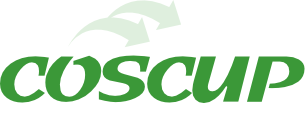
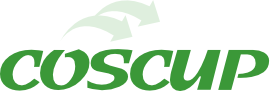
Adjustment for IE7/8

diff --git a/assets/script.min.js b/assets/script.min.js
@@ -1,5 +1,5 @@
-jQuery(function(a){var b=a('<div id="images" class="images" />');a("#header").prepend(b);b.imageTile({num:60,photos:[].concat(yuren_54.shuffle(),photos.shuffle().slice(0,60-yuren_54.length))});b=a('<div id="images_footer" class="images" />');a("#footer").prepend(b);b.imageTile({num:15,photos:yuren_54});a("#sidebar2 > .images").imageTile({num:12,photos:yuren_54});var c=a("#connect_box"),d;a("#connect").bind("click",function(a){a.preventDefault();c.toggleClass("show",!c.is(":visible"))}).add(c).bind("mouseenter",
-function(){clearTimeout(d);c.is(":visible")||c.addClass("show")}).bind("mouseleave",function(){d=setTimeout(function(){c.removeClass("show")},200)})});
+jQuery(function(a){var b=a('<div id="images" class="images" />');a("#header").prepend(b);b.imageTile({num:60,photos:[].concat(yuren_54.shuffle(),photos.shuffle().slice(0,60-yuren_54.length)),beforeImageLoad:function(a){a.css("opacity",0)},imageLoad:function(a){a.css("opacity",0.5)}});b=a('<div id="images_footer" class="images" />');a("#footer").prepend(b);b.imageTile({num:15,photos:yuren_54,beforeImageLoad:function(a){a.css("opacity",0)},imageLoad:function(a){a.css("opacity",0.5)}});a("#sidebar2 > .images").imageTile({num:12,
+photos:yuren_54,beforeImageLoad:function(a){a.css("opacity",0)},imageLoad:function(a){a.css("opacity",1)}});var c=a("#connect_box"),d;a("#connect").bind("click",function(a){a.preventDefault();c.toggleClass("show",!c.is(":visible"))}).add(c).bind("mouseenter",function(){clearTimeout(d);c.is(":visible")||c.addClass("show")}).bind("mouseleave",function(){d=setTimeout(function(){c.removeClass("show")},200)})});
 var yuren_54=[{photo_url:"4075/4889441807_3a86c8bf67",link_url:"12452841@N00/4889441807",title:"P8140746"},{photo_url:"4140/4901940636_321b5dc4b1",link_url:"48749766@N00/4901940636",title:"DSC_2622"},{photo_url:"4134/4893573695_bd7cf4c7b6",link_url:"12452841@N00/4893573695",title:"P8151046"},{photo_url:"4074/4901933360_56de47f0a2",link_url:"48749766@N00/4901933360",title:"DSC_2541"},{photo_url:"4077/4912818611_92a804ccb1",link_url:"54331619@N00/4912818611",title:"COSCUP Day 2"},{photo_url:"4139/4903649894_ef83276b1e",
 link_url:"38664137@N07/4903649894",title:"full2"},{photo_url:"4114/4892533724_255a0db780",link_url:"96595297@N00/4892533724",title:"DSC_8318"},{photo_url:"4143/4893498695_6ed348fb05",link_url:"12452841@N00/4893498695",title:"P8151024"},{photo_url:"4116/4901453941_9053107317",link_url:"48749766@N00/4901453941",title:"DSC_3313"},{photo_url:"4082/4901389753_7a1dc45532",link_url:"48749766@N00/4901389753",title:"DSC_2942"},{photo_url:"4114/4907109051_dbb853678f",link_url:"54331619@N00/4907109051",title:"COSCUP 2010 Day 1 - Ubuntu BoF"},
 {photo_url:"4073/4892563466_96ec98e91b",link_url:"96595297@N00/4892563466",title:"DSC_8100"},{photo_url:"4140/4907688780_cdd0f13076",link_url:"54331619@N00/4907688780",title:"COSCUP 2010 Day 1"},{photo_url:"4094/4893271331_a53ae76028",link_url:"12452841@N00/4893271331",title:"P8150957"},{photo_url:"4079/4905410356_15f64bf25e",link_url:"54331619@N00/4905410356",title:"COSCUP 2010 Day 1"},{photo_url:"4100/4890741725_22f7365dd4",link_url:"12452841@N00/4890741725",title:"P8140894"},{photo_url:"4116/4934292898_a1b9a6856f",

diff --git a/assets/style.css b/assets/style.css
@@ -14,22 +14,21 @@ body {
   margin: 0;
   padding: 0;
   width: 75px;
-  height: 75px;
-  opacity: 0.5;
-  -moz-transition: opacity 0.2s ease-out;
-  -webkit-transition: opacity 0.2s ease-out;
-  -ms-transition: opacity 0.2s ease-out;
-  -o-transition: opacity 0.2s ease-out;
-  transition: opacity 0.2s ease-out; }
-  .images > a:hover {
+  height: 75px; }
+  .images > a > img {
+    -moz-transition: opacity 0.2s ease-out;
+    -webkit-transition: opacity 0.2s ease-out;
+    -ms-transition: opacity 0.2s ease-out;
+    -o-transition: opacity 0.2s ease-out;
+    transition: opacity 0.2s ease-out;
+    border: none; }
+  .images > a:hover > img {
     -moz-transition: opacity 0.2s ease-in;
     -webkit-transition: opacity 0.2s ease-in;
     -ms-transition: opacity 0.2s ease-in;
     -o-transition: opacity 0.2s ease-in;
     transition: opacity 0.2s ease-in;
-    opacity: 1; }
-.images img {
-  border: none; }
+    opacity: 1!important; }
 
 #header, #footer {
   width: 1110px;
@@ -79,7 +78,7 @@ body {
         left: 5px;
         width: 270px;
         height: 107.115px;
-        background: transparent url("coscup.svg") center center no-repeat;
+        background: transparent url("coscup.png") center center no-repeat;
         background-size: cover;
         text-indent: -10000px; }
     #header > .info > #title {
@@ -87,6 +86,7 @@ body {
       top: 129.115px;
       left: 40px;
       font-size: 110%;
+      line-height: 140%;
       font-weight: bold;
       width: 306.4px;
       text-align: center;
@@ -102,9 +102,10 @@ body {
     #header > .info > #date {
       position: absolute;
       left: 360px;
-      top: 88px;
+      top: 55px;
       font-weight: bold;
       font-size: 380%;
+      line-height: 140%;
       width: 710px;
       white-space: nowrap;
       color: #42b535; }
@@ -133,6 +134,7 @@ body {
       width: 710px; }
       #header > .info > #nav a {
         color: #333;
+        font-weight: bold;
         -moz-transition: background, color 0.2s ease-out;
         -webkit-transition: background, color 0.2s ease-out;
         -ms-transition: background, color 0.2s ease-out;
@@ -393,7 +395,6 @@ html[lang="zh-TW"] #content {
       height: 249px;
       margin: 0 -8px 0 0; }
       #content > #sidebar2 > .images > a {
-        opacity: 1;
         width: 66px;
         margin: 0 8px 8px 0;
         overflow: hidden; }

diff --git a/assets/style.scss b/assets/style.scss
@@ -77,15 +77,16 @@ $h_right_width: ($width - $h_left - 3) * $col + ($width - $h_left - 4) * $gutter
 		margin: 0; padding: 0;
 		width: 75px;
 		height: 75px;
-		opacity: 0.5;
-		@include prefix(transition, opacity .2s ease-out);
-		&:hover {
-			@include prefix(transition, opacity .2s ease-in);
-			opacity: 1;
+		> img {
+			@include prefix(transition, opacity .2s ease-out);
+			border: none;
 		}
-	}
-	img {
-		border: none;
+		&:hover {
+			> img {
+				@include prefix(transition, opacity .2s ease-in);
+				opacity: 1!important;
+			}
+		}
 	}
 }
 
@@ -138,7 +139,7 @@ $h_right_width: ($width - $h_left - 3) * $col + ($width - $h_left - 4) * $gutter
 				left: $gutter / 2;
 				width: $h_left_width;
 				height: $h_left_width / 2.52066;
-				background: transparent url('coscup.svg') center center no-repeat;
+				background: transparent url('coscup.png') center center no-repeat;
 				background-size: cover;
 				text-indent: -10000px;
 			}
@@ -149,6 +150,7 @@ $h_right_width: ($width - $h_left - 3) * $col + ($width - $h_left - 4) * $gutter
 			top: $line_height + $h_left_width / 2.52066;
 			left: $col + $gutter;
 			font-size: 110%;
+			line-height: 140%;
 			font-weight: bold;
 			width: $h_left_width + ($h_left_width - $font_size * 1.1 * 5) / 5; // 最後一個字的 letter-spacing
 			text-align: center;
@@ -177,10 +179,11 @@ $h_right_width: ($width - $h_left - 3) * $col + ($width - $h_left - 4) * $gutter
 		> #date {
 			position: absolute;
 			left: ( $col + $gutter ) * ($h_left + 2);
-			top: $line_height * 4;
+			top: $line_height * 2.5;
 			font-weight: bold;
 			//font-style: italic;
 			font-size: 380%;
+			line-height: 140%;
 			width: $h_right_width;
 			white-space: nowrap;
 			color: $dark;
@@ -217,6 +220,7 @@ $h_right_width: ($width - $h_left - 3) * $col + ($width - $h_left - 4) * $gutter
 			width: $h_right_width;
 			a {
 				color: #333;
+				font-weight: bold;
 				$val: background, color .2s ease-out;
 				@include prefix(transition, $val);
 				&:hover {
@@ -502,7 +506,6 @@ html[lang="zh-TW"] #content {
 			//margin: ($line_height / 2) (- $img_gutter) ($line_height / 2) 0;
 			margin: 0 (- $img_gutter) 0 0;
 			> a {
-				opacity: 1;
 				width: 75 - 3 - $img_gutter*3/4;
 				margin: 0 $img_gutter $img_gutter 0;
 				overflow: hidden;

diff --git a/assets/script.js b/assets/script.js
@@ -13,7 +13,13 @@ jQuery(function ($) {
 			photos: [].concat(
 				yuren_54.shuffle(),
 				photos.shuffle().slice(0, 15*4 - yuren_54.length)
-			)
+			),
+			beforeImageLoad: function ($img, i) {
+				$img.css('opacity', 0);
+			},
+			imageLoad: function ($img, i) {
+				$img.css('opacity', 0.5);
+			}
 		}
 	);
 
@@ -23,7 +29,13 @@ jQuery(function ($) {
 	$images_footer.imageTile(
 		{
 			num: 15,
-			photos: yuren_54
+			photos: yuren_54,
+			beforeImageLoad: function ($img, i) {
+				$img.css('opacity', 0);
+			},
+			imageLoad: function ($img, i) {
+				$img.css('opacity', 0.5);
+			}
 		}
 	);
 
@@ -32,7 +44,13 @@ jQuery(function ($) {
 	$('#sidebar2 > .images').imageTile(
 		{
 			num: 12,
-			photos: yuren_54
+			photos: yuren_54,
+			beforeImageLoad: function ($img, i) {
+				$img.css('opacity', 0);
+			},
+			imageLoad: function ($img, i) {
+				$img.css('opacity', 1);
+			}
 		}
 	);
 	
